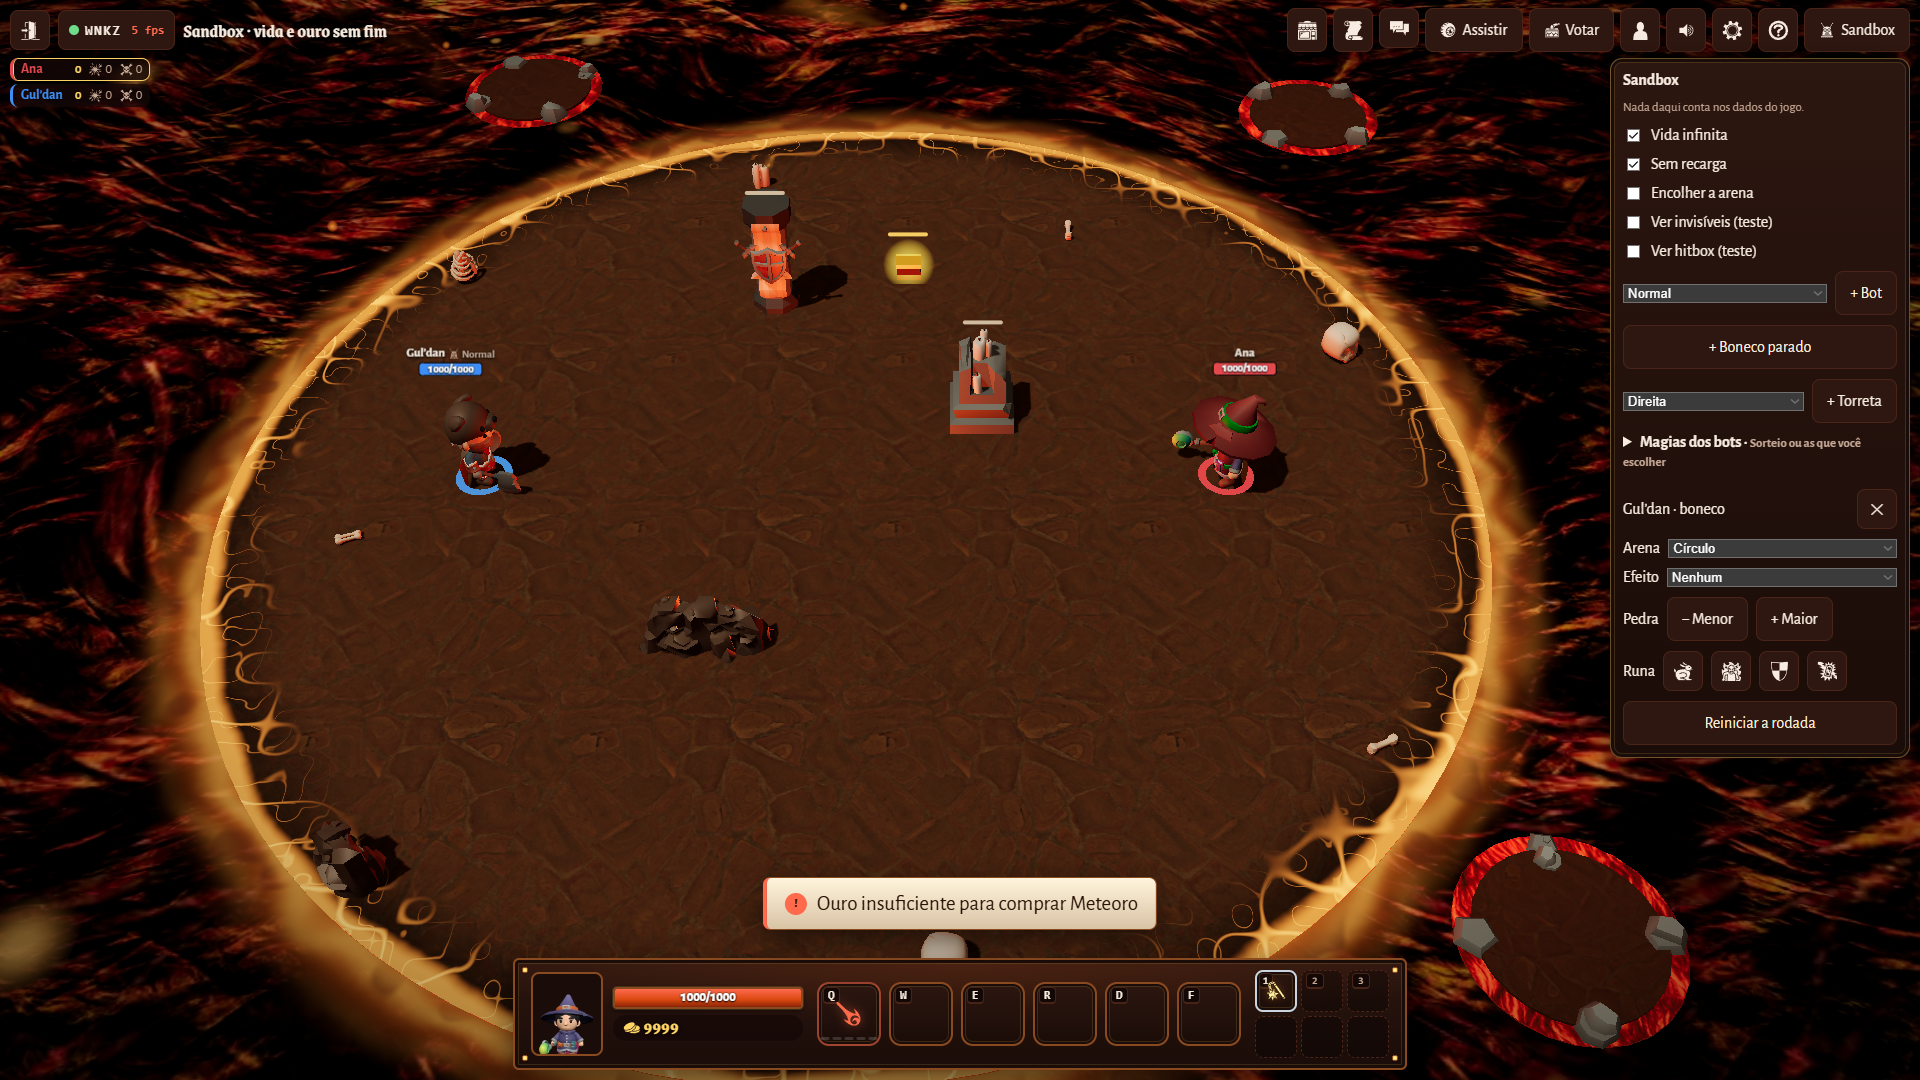
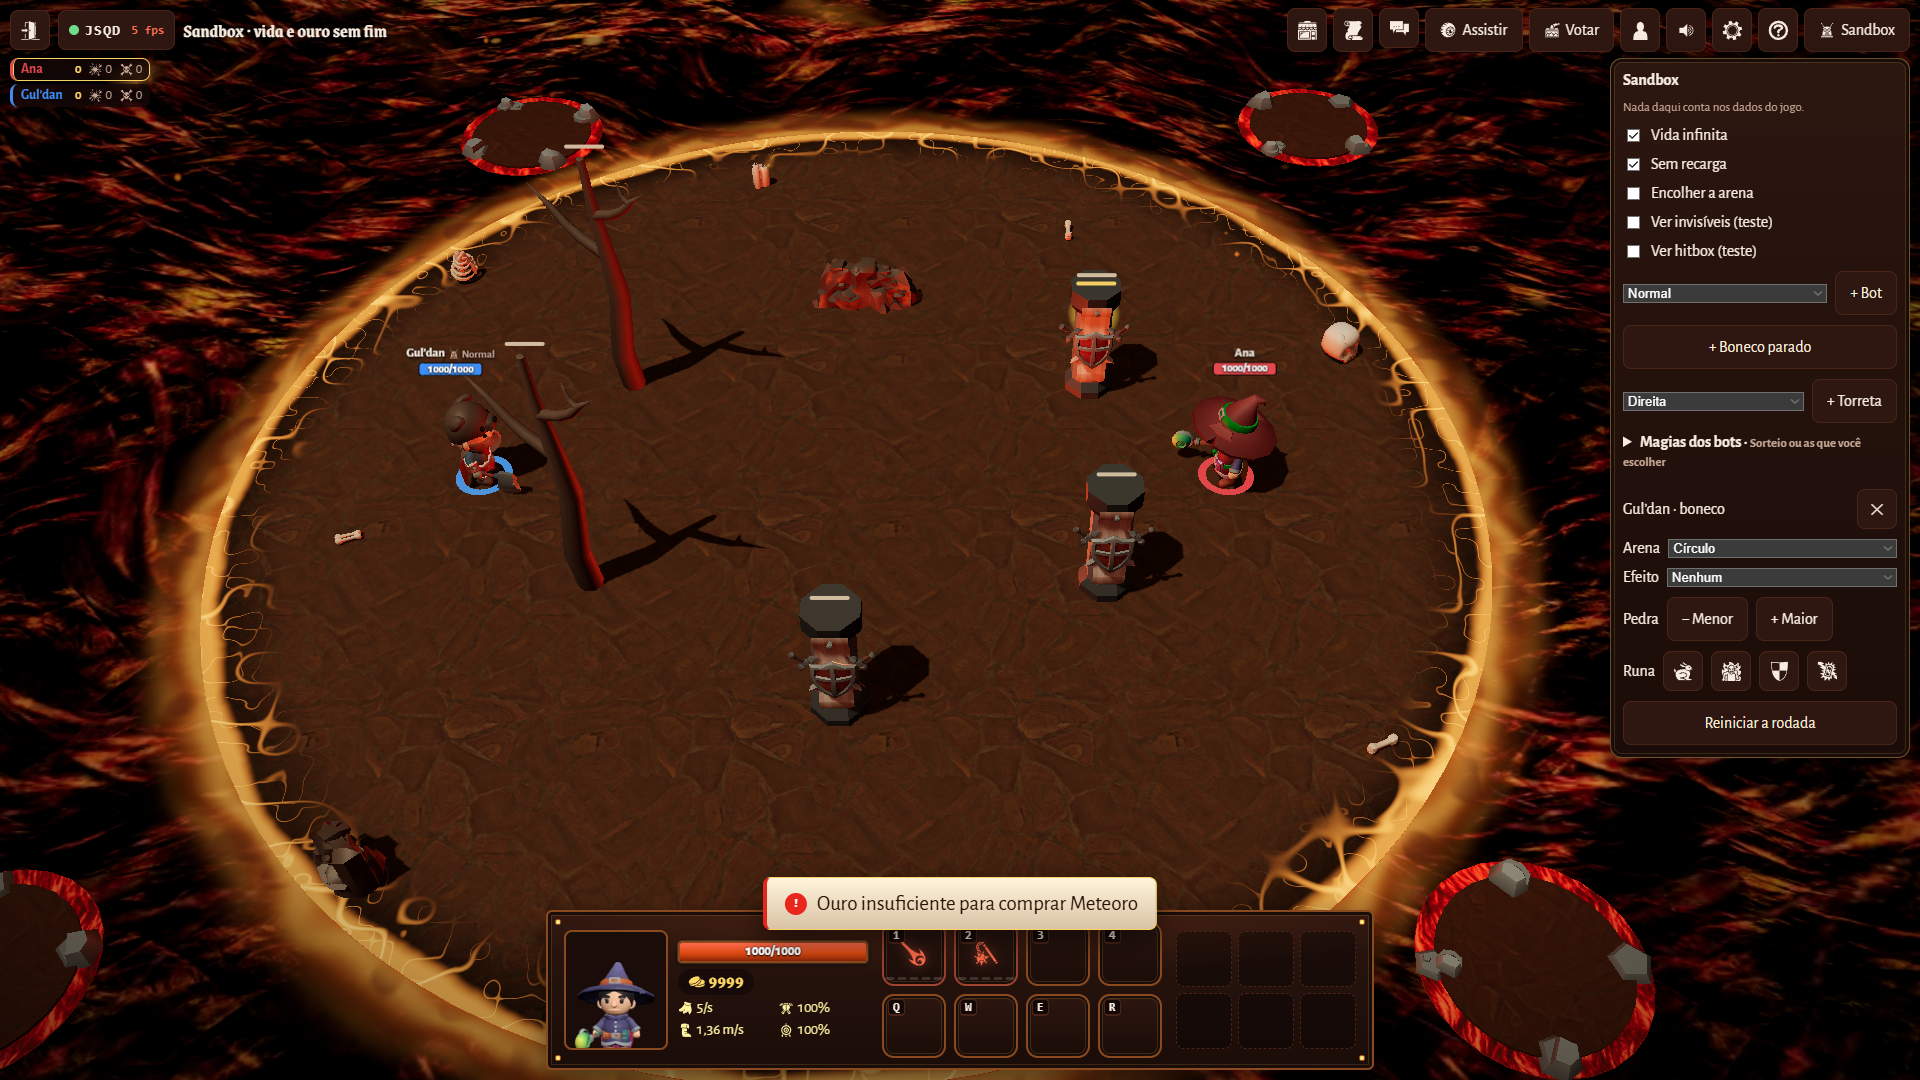
style: avisos sem marrom: informação em azul e erro em vermelho vivo

diff --git a/src/client/style.css b/src/client/style.css
@@ -19,6 +19,8 @@
   --plate: linear-gradient(180deg, var(--panel-top), var(--panel-bot));
   /* pergaminho claro dos avisos: destaca por cima da lava e da pedra escura, que têm o mesmo tom do --plate */
   --paper: linear-gradient(180deg, var(--cream), var(--stone));
+  /* cores dos avisos no pergaminho: azul de informação e vermelho vivo de erro, sem marrom (o resto da tela já é marrom) */
+  --toast-info: #2f86e8; --toast-bad: #e8261c;
   --plate-edge: inset 0 0 0 3px var(--panel-bot), inset 0 0 0 4px var(--gold-faint);
   /* moldura de jogo dos painéis: rebite dourado nos 4 cantos e brilho de lava atrás do título (camadas por cima do --plate) */
   --r-frame: 6px;
@@ -284,7 +286,7 @@ button.kick:hover { background: rgba(255, 106, 77, .15); }
 .wiz-label .hp-extra .rush { color: #ff9640; }
 
 /* letra 1,3x do tamanho normal, a mesma do aviso de quem saiu (PR #234), e fundo claro: o aviso aparece por poucos segundos no meio da partida e precisa ser lido de relance */
-#toast { position: fixed; left: 50%; bottom: calc(150px + var(--safe-b)); transform: translateX(-50%); background: var(--paper); color: var(--cream-ink); border: 1px solid var(--bronze); box-shadow: var(--shadow-md); padding: 13px 18px; border-radius: var(--r-sm); font-size: 1.3rem; opacity: 0; transition: opacity .2s; pointer-events: none; max-width: calc(100% - 32px); overflow-wrap: anywhere; z-index: 20; user-select: text; }
+#toast { position: fixed; left: 50%; bottom: calc(150px + var(--safe-b)); transform: translateX(-50%); background: var(--paper); color: var(--cream-ink); border: 1px solid var(--gold); box-shadow: var(--shadow-md); padding: 13px 18px; border-radius: var(--r-sm); font-size: 1.3rem; opacity: 0; transition: opacity .2s; pointer-events: none; max-width: calc(100% - 32px); overflow-wrap: anywhere; z-index: 20; user-select: text; }
 #toast.show { opacity: 1; pointer-events: auto; }
 /* com uma loja aberta o clique atravessa o aviso: ele fica por cima da última fileira de cartas e tapava a compra (issue #208) */
 body:has(.center .shop, .peek-shop:not([hidden]) .shop) #toast { pointer-events: none; }
@@ -609,17 +611,17 @@ button.primary:not(:disabled):active, .button:active { transform: translateY(2px
 button.primary.urgent:not(:disabled) { animation: urgent .45s ease-in-out infinite alternate; }
 @keyframes urgent { from { box-shadow: 0 0 0 0 rgba(255, 106, 77, 0); } to { box-shadow: 0 0 0 3px var(--red), 0 0 22px rgba(255, 106, 77, .7); } }
 /* avisos com ícone e cor por tipo; sobem um pouco ao aparecer */
-#toast { display: flex; align-items: center; gap: 10px; border-left: 4px solid var(--bronze); transform: translate(-50%, 8px); transition: opacity .2s, transform .2s; }
+#toast { display: flex; align-items: center; gap: 10px; border-left: 4px solid var(--toast-info); transform: translate(-50%, 8px); transition: opacity .2s, transform .2s; }
 #toast.show { transform: translateX(-50%); }
-#toast::before { flex: none; width: 22px; height: 22px; border-radius: 50%; display: grid; place-items: center; font-size: .8rem; font-weight: 800; content: 'i'; background: var(--bronze); color: var(--cream); }
+#toast::before { flex: none; width: 22px; height: 22px; border-radius: 50%; display: grid; place-items: center; font-size: .8rem; font-weight: 800; content: 'i'; background: var(--toast-info); color: var(--white); }
 /* no fundo claro o ícone é um disco cheio da cor do tipo com o símbolo escuro: a cor clara sobre o pergaminho sumia */
 #toast[data-kind="good"] { border-left-color: var(--ok); }
 #toast[data-kind="good"]::before { content: '✓'; background: var(--ok); color: var(--cream-ink); }
-#toast[data-kind="bad"] { border-left-color: var(--red); }
-#toast[data-kind="bad"]::before { content: '!'; background: var(--red); color: var(--cream-ink); }
+#toast[data-kind="bad"] { border-left-color: var(--toast-bad); }
+#toast[data-kind="bad"]::before { content: '!'; background: var(--toast-bad); color: var(--white); }
 #toast[data-kind="gold"] { border-left-color: var(--gold); }
 #toast[data-kind="gold"]::before { content: none; }
-#toast[data-kind="gold"] > .gi { flex: none; font-size: 1.3rem; color: var(--bronze); }
+#toast[data-kind="gold"] > .gi { flex: none; font-size: 1.3rem; color: var(--lava-deep); }
 /* golpe crítico: número claro com brilho de brasa */
 .dmg.crit { color: var(--gold-pale); -webkit-text-stroke: 1px var(--lava-dark); text-shadow: 0 0 12px rgba(255, 170, 40, .9), var(--text-shadow); }
 /* VITÓRIA: dourado em degradê, maior, com confete saindo do centro */
